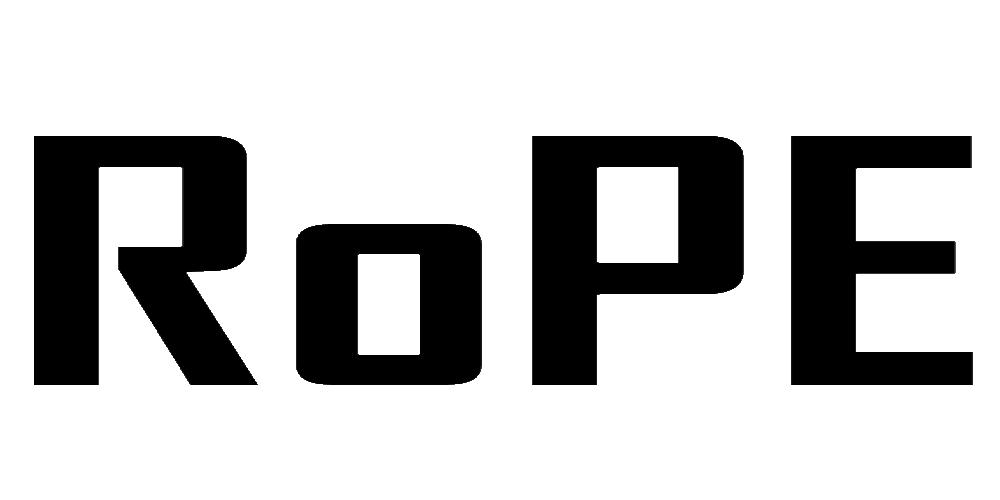
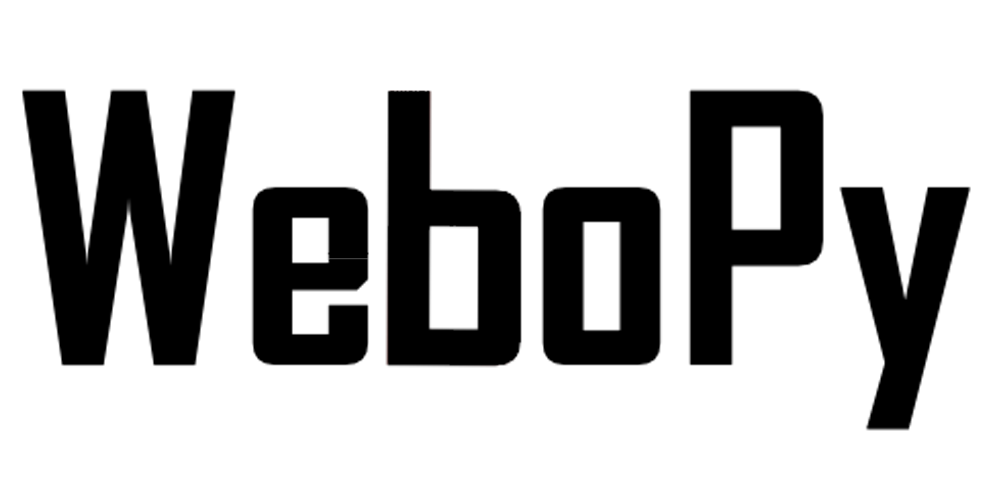
guest

Changed region(s): [[0.0, 0.18, 0.992, 0.87]]

diff --git a/templates/index.html b/templates/index.html
@@ -1,4 +1,4 @@
-<html lang="en-us">
+<html lang="ja">
 
 <head>
     <meta charset="utf-8">
@@ -6,7 +6,7 @@
 
     <meta name="apple-mobile-web-app-capable" content="yes">
     <meta name="apple-mobile-web-app-status-bar-style" content="black-translucent">
-    <title>RoPE</title>
+    <title>WeboPy</title>
     <!--CSS-->
     <link rel="stylesheet" type="text/css" href="/static/css/generalDesign.css">
     <link rel="stylesheet" type="text/css" href="/static/css/index.css">
@@ -40,7 +40,7 @@
         <a  class="btn06 " style="font-size: 3vh;position:absolute;bottom:1vh;right:1vh; "onclick="pwaInstall()">Add to HOME</a>
     </div>
 
-    <p style="position:absolute;bottom:1vh;left:1vw;">{{session['ver']}}</p>
+    
 
 
     <div class="selectBack">
@@ -50,12 +50,12 @@
                 
                 <div class="Content" style="text-align:center;">
                     <img src="/static/img/white.png " style="width:75%;height:auto;right:auto;left:auto;">
-                    <h1>Thank you for visiting RoPE!</h1>
+                    <h1>Thank you for visiting WeboPy!</h1>
                     <p>Before starting the game, it is recommended to do the tutorial from the link below.</p>
                     <a class="btn06 " style="font-size: 3vh;" onclick="window.open('https://roperope.sakura.ne.jp/tutorial/DocTop.html', '_blank')">Tutorial</a>
                     <p>If you want to know more about the game, please visit the website.</p>
                     <a class="btn06 " style="font-size: 3vh;" onclick="window.open('https://roperope.sakura.ne.jp', '_blank')">Official site</a>
-                    <p>Enjoy RoPE!</p>
+                    <p>Enjoy WeboPy!</p>
                     <a class="ContentClose" onclick='$(".selectContent").empty();$(".selectBack").hide();'>Start!</a>
                 </div>
                 
@@ -73,6 +73,12 @@
         {% else%}
             <a href="{{url_for('login')}}" class="btn06" style="font-size: 3vh;position:absolute;top:1vh;right:1vh; ">LogIn</a>
         {% endif %} 
+
+        {% if session['login'] == 'True'%}
+            <p style="position:absolute;bottom:1vh;left:1vw;">{{session['ver']}}</p>
+        {%else%}
+            <p style="position:absolute;bottom:1vh;left:1vw;">Guest</p>
+        {%endif%}
     {%endif%}
 
     

diff --git a/templates/login.html b/templates/login.html
@@ -5,7 +5,7 @@
     <meta charset="utf-8">
     <meta http-equiv="X-UA-Compatible" content="IE=edge">
     <meta name="viewport" content="width=device-width, initial-scale=1">
-    <title>RoboPy</title>
+    <title>WeboPy</title>
     <link rel="stylesheet" href="https://maxcdn.bootstrapcdn.com/bootstrap/3.3.7/css/bootstrap.min.css">
     <script src="https://ajax.googleapis.com/ajax/libs/jquery/1.12.4/jquery.min.js"></script>
     <script src="https://maxcdn.bootstrapcdn.com/bootstrap/3.3.7/js/bootstrap.min.js"></script>

diff --git a/templates/register.html b/templates/register.html
@@ -5,7 +5,7 @@
     <meta charset="utf-8">
     <meta http-equiv="X-UA-Compatible" content="IE=edge">
     <meta name="viewport" content="width=device-width, initial-scale=1">
-    <title>RoboPy</title>
+    <title>WeboPy</title>
     <link rel="stylesheet" href="https://maxcdn.bootstrapcdn.com/bootstrap/3.3.7/css/bootstrap.min.css">
     <script src="https://ajax.googleapis.com/ajax/libs/jquery/1.12.4/jquery.min.js"></script>
     <script src="https://maxcdn.bootstrapcdn.com/bootstrap/3.3.7/js/bootstrap.min.js"></script>

diff --git a/templates/mission.html b/templates/mission.html
@@ -4,7 +4,7 @@
     <meta charset="utf-8">
     <meta http-equiv="Content-Type" content="text/html; charset=utf-8">
     <script src="/static/js/node_modules/jquery/dist/jquery.min.js"></script>
-
+    <title>WeboPy</title>
     <!--CSS-->
     <link rel="stylesheet" type="text/css" href="/static/css/generalDesign.css">
     <link rel="stylesheet" type="text/css" href="/static/css/generalDesign.css">

diff --git a/templates/program.html b/templates/program.html
@@ -1,6 +1,7 @@
 <html lang="en-us">
 
 <head>
+    <title>WeboPy</title>
     <meta charset="utf-8">
     <meta http-equiv="Content-Type" content="text/html; charset=utf-8">
     <link rel="stylesheet" type="text/css" href="/static/css/generalDesign.css">

diff --git a/templates/payed.html b/templates/payed.html
@@ -3,7 +3,7 @@
 
 <head>
     <meta charset="UTF-8">
-    <title>RoPE</title>
+    <title>WeboPy</title>
     <link rel="stylesheet" type="text/css" href="/static/css/generalDesign.css">
     <style>
         .btn {

diff --git a/templates/craft.html b/templates/craft.html
@@ -2,6 +2,7 @@
 
 <head>
     <meta charset="utf-8">
+    <title>WeboPy</title>
     <meta http-equiv="Content-Type" content="text/html; charset=utf-8">
 
     <!--CSS-->

diff --git a/app.py b/app.py
@@ -1,7 +1,5 @@
 from flask import  request,session,redirect,render_template,send_from_directory,Flask,url_for,make_response,jsonify
 from flask import *
-import flask_wtf
-import wtforms
 import db
 import datetime
 import os
@@ -36,7 +34,7 @@ def init_session():
 
 def check_premium():
     if session['login'] == 'True':
-        data = db.search_fromMail(session['mail'])#SQLからデータを取得
+        data = db.search_fromMail(session['mail'])
         if data[0][2] == "pro":
             session['ver'] = "pro"
             return True
@@ -142,10 +140,12 @@ def logout():
     return redirect(url_for('index'))   
 
 #Stripe
-@app.route('/payment.html')
+@app.route('/payment')
 def payment():
+    if session['login'] == 'False':
+        return redirect(url_for('login'))
 
-    if 'login' in session and session['login'] == 'True' and session['ver'] == "free":
+    if session['ver'] == "free":
         checkout_session = stripe.checkout.Session.create(
             payment_method_types=['card'],
             line_items=[{
@@ -163,7 +163,7 @@ def payment():
             checkout_public_key = db.PUBLISHABLE_KEY
             )
     else:
-        return redirect(url_for('login'))
+        return redirect(url_for('index'))
 
 
 @app.route('/payed')
@@ -255,10 +255,11 @@ def index_sub():
 
 @app.route("/craft.html", methods=['GET']) 
 def craft():
-    if 'login' not in session:
-        init_session()
-        return redirect(url_for('login'))
-    if session['login'] == 'True':
+
+    #if 'login' not in session:
+    #    init_session()
+    #    return redirect(url_for('login'))
+    if 'login' in session:
         if session['ver'] == 'free':
             Basic = ['Basic',[['BB','BasicBlock','True'],
                                 ['BB1','BasicBlock','True'],
@@ -320,19 +321,19 @@ def craft():
 
         parts = [Basic,Advance,Wheel,Motor,Sensor]
         return render_template("craft.html",parts=parts)
-    else:
-        return redirect(url_for('login'))    
 @app.route("/mission.html", methods=['POST', 'GET']) 
 def mission():
-    if 'login' not in session:
-        init_session()
-        return redirect(url_for('login'))
+
+    #if 'login' not in session:
+    #    init_session()
+    #    return redirect(url_for('login'))
 
     if request.method == "GET":
-        if session['login'] == 'True':
-            return render_template("mission.html")
-        else:
-            return redirect(url_for('login'))    
+        return render_template("mission.html")
+        #if session['login'] == 'True':
+        #    return render_template("mission.html")
+        #else:
+        #    return redirect(url_for('login'))    
     else:
         if 'clear' in request.form:
             if request.form['clear'] == 'basic':
@@ -346,10 +347,10 @@ def mission():
             
 @app.route("/missionSelect.html", methods=['POST', 'GET']) 
 def missionSelect():
-    if 'login' not in session:
-        init_session()
-        return redirect(url_for('login'))
-    if session['login'] == 'True':
+    #if 'login' not in session:
+    #    init_session()
+    #    return redirect(url_for('login'))
+    if 'login' in session:
         missions = []
         Basic = ['basic_','Basic',[
             '<p>Go through the checkpoint.</p>',
@@ -380,17 +381,16 @@ def missionSelect():
         missions.append(LineTracking)
         missions.append(Maze)
         return render_template("missionSelect.html",missions = missions)
-    else:
-        return redirect(url_for('login'))    
 
 
 
 @app.route("/program.html", methods=['POST', 'GET']) 
 def program():
-    if session['login'] == 'True':
-        return render_template("program.html")
-    else:
-        return redirect(url_for('login'))    
+    return render_template("program.html")
+    #if session['login'] == 'True':
+    #    return render_template("program.html")
+    #else:
+    #    return redirect(url_for('login'))    
 
 
 
